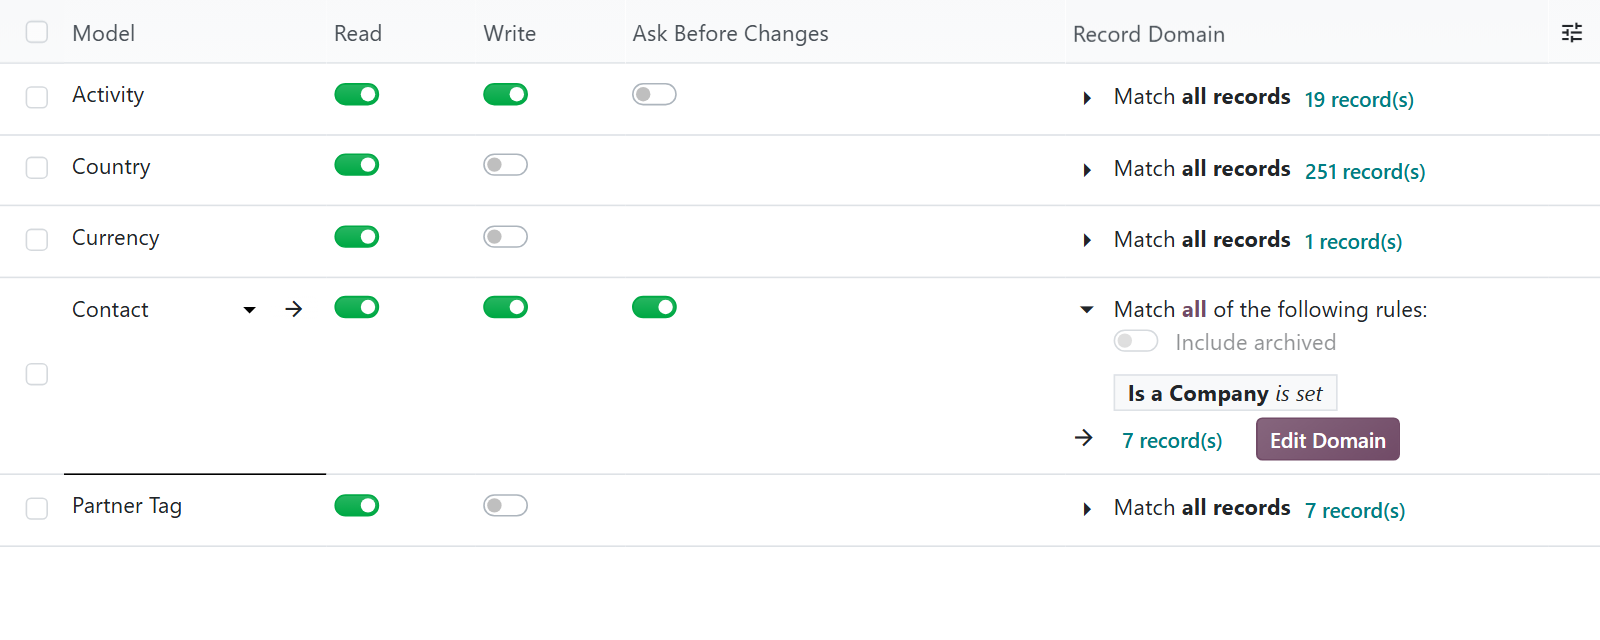
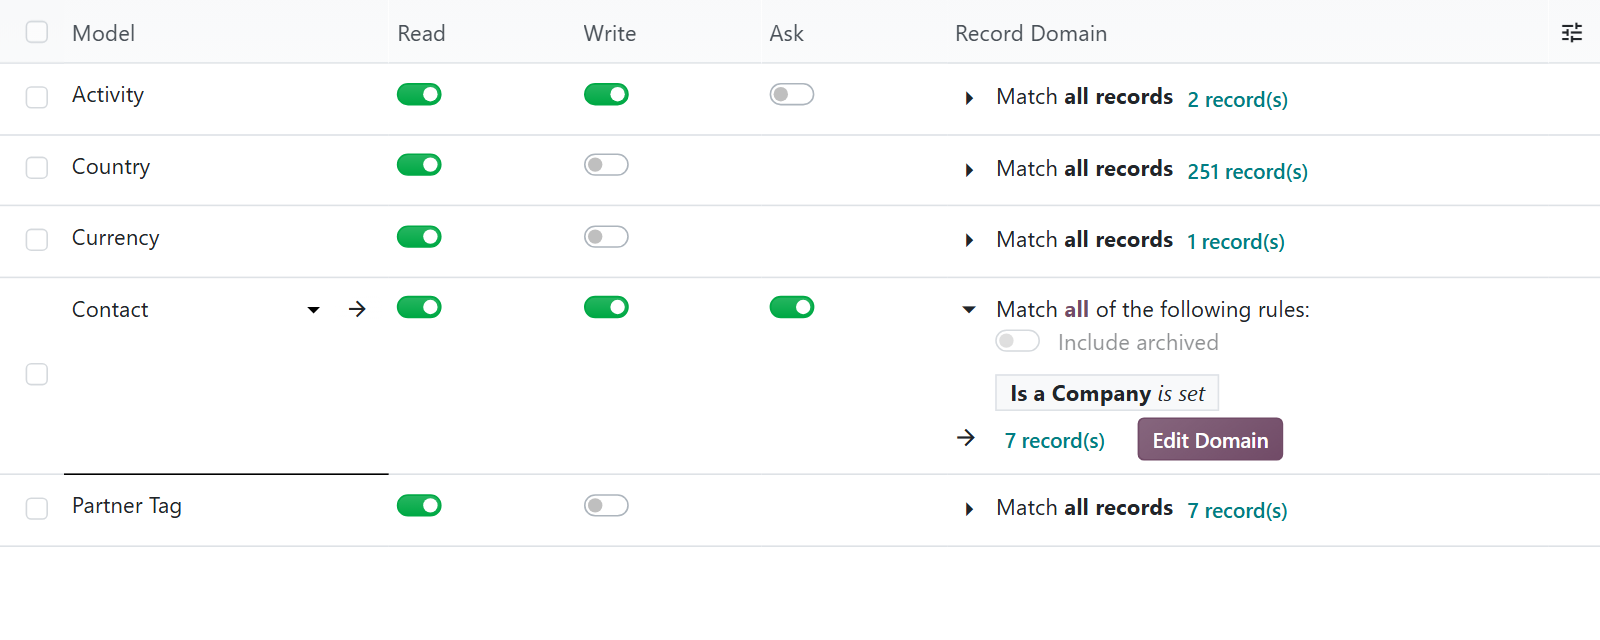
Update muk_mcp_access (dc7fae0a)

diff --git a/muk_mcp_access/static/description/index.html b/muk_mcp_access/static/description/index.html
@@ -49,7 +49,7 @@
 	<div class="px-4 px-md-5" style="max-width: 1288px; margin: 0 auto;">
 		<div style="border: 1px solid #CFCBC3; border-radius: 8px; background-color: #FFFFFF;">
 			<div style="background-color: #F2F0EC; border-bottom: 1px solid #E3E0DA; border-radius: 7px 7px 0 0; padding: 10px 16px; font-family: ui-monospace, SFMono-Regular, Menlo, Consolas, monospace; font-size: 12px; color: #5C666F;">Settings &nbsp;&rsaquo;&nbsp; MCP &nbsp;&rsaquo;&nbsp; Authentication &nbsp;&rsaquo;&nbsp; Access</div>
-			<img src="screenshot.png" alt="The MCP model access list with activities, countries, currencies, contacts and partner tags, each with switches for read, write and ask before changes and a record domain" style="display: block; width: 100%; height: auto; max-width: none; border-radius: 0 0 7px 7px;">
+			<img src="screenshot.png" alt="The MCP model access list with activities, countries, currencies, contacts and partner tags, each with switches for read, write and ask and a record domain" style="display: block; width: 100%; height: auto; max-width: none; border-radius: 0 0 7px 7px;">
 		</div>
 		<div style="padding-top: 12px; font-size: 13px; line-height: 1.5; color: #5C666F;">One line per model the agent may reach, with its switches and the records it is limited to.</div>
 	</div>
@@ -159,7 +159,7 @@
 				<div style="border-left-width: 3px; border-left-style: solid; border-left-color: #5D8DA8; padding-left: 22px; margin-bottom: 24px;">
 					<div style="font-family: ui-monospace, SFMono-Regular, Menlo, Consolas, monospace; font-size: 12px; letter-spacing: 0.14em; text-transform: uppercase; color: #33627E; margin-bottom: 12px;">Ask before changes</div>
 					<h2 style="margin: 0 0 14px 0; font-family: -apple-system, BlinkMacSystemFont, 'Segoe UI', Roboto, 'Helvetica Neue', Arial, sans-serif; font-size: clamp(28px, 2.8vw, 36px); letter-spacing: -0.015em; line-height: 1.12; font-weight: 700; text-align: left; color: #13181C;">The user has the last word</h2>
-					<p style="margin: 0 0 14px 0; font-size: 16px; line-height: 1.7; font-weight: 400; text-align: left; color: #3C464E;">Switch on Ask Before Changes for the models where a mistake hurts. The agent's call changes nothing until the user has seen it in the AI client and accepted it.</p>
+					<p style="margin: 0 0 14px 0; font-size: 16px; line-height: 1.7; font-weight: 400; text-align: left; color: #3C464E;">Switch on Ask for the models where a mistake hurts. The agent's call changes nothing until the user has seen it in the AI client and accepted it.</p>
 					<p style="margin: 0; font-size: 16px; line-height: 1.7; font-weight: 400; text-align: left; color: #3C464E;">The question names the records and shows the values. An answer counts for this one call, once, and a declined change comes back to the agent as a clear no.</p>
 				</div>
 				<div style="background-color: #EFF4F7; border-left-width: 3px; border-left-style: solid; border-left-color: #5D8DA8; border-radius: 0 6px 6px 0; padding: 18px 22px;">

diff --git a/muk_mcp_access/models/mcp_access.py b/muk_mcp_access/models/mcp_access.py
@@ -57,7 +57,7 @@ class MCPAccessModel(models.Model):
     )
 
     confirm_write = fields.Boolean(
-        string='Ask Before Changes',
+        string='Ask',
         help=(
             'Ask the user in the AI client before a write tool runs on this '
             'model. A client that cannot ask is refused.'

diff --git a/muk_mcp_access/__manifest__.py b/muk_mcp_access/__manifest__.py
@@ -12,7 +12,7 @@
         only the listed models are exposed and the agent cannot discover or
         query anything else.
     """,
-    'version': '20.0.1.2.0',
+    'version': '20.0.1.2.1',
     'category': 'Tools/API',
     'license': 'LGPL-3',
     'author': 'MuK IT',

diff --git a/muk_mcp_access/README.md b/muk_mcp_access/README.md
@@ -38,9 +38,9 @@ whoever the key belongs to.
 1. Install the module next to **MuK MCP Server**. Nothing changes until the
    first model is listed.
 2. Open **Settings > MCP > Authentication > Access** and use **Add Models**.
-3. Switch on **Write** where the agent should change data, **Ask Before
-   Changes** where the user should confirm it, and add a **Record Domain** where
-   it should see only part of a model.
+3. Switch on **Write** where the agent should change data, **Ask** where the
+   user should confirm it, and add a **Record Domain** where it should see only
+   part of a model.
 
 ## Support
 

diff --git a/muk_mcp_access/doc/index.rst b/muk_mcp_access/doc/index.rst
@@ -45,7 +45,7 @@ Each entry sets:
   ``print_report``, ...) accept it.
 - *Write*: the write tools (``create_records``, ``update_records``,
   ``delete_records``, ``call_method``, ...) accept it.
-- *Ask Before Changes*: the user is asked in the AI client before a write tool
+- *Ask*: the user is asked in the AI client before a write tool
   runs on the model. A client that cannot ask is refused, so leave it off for
   models such a client has to change.
 - *Record Domain*: an optional filter, like a record rule. Only records
